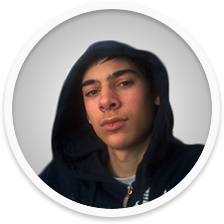
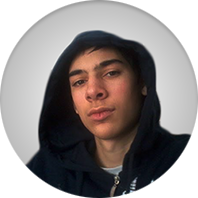
Design improvements

diff --git a/style.css b/style.css
@@ -1,1 +1,1 @@
-/*! normalize.css v4.1.1 | MIT License | github.com/necolas/normalize.css */html{font-family:sans-serif;-ms-text-size-adjust:100%;-webkit-text-size-adjust:100%}body{margin:0}article,aside,details,figcaption,figure,footer,header,main,menu,nav,section,summary{display:block}audio,canvas,progress,video{display:inline-block}audio:not([controls]){display:none;height:0}progress{vertical-align:baseline}template,[hidden]{display:none}a{background-color:transparent;-webkit-text-decoration-skip:objects}a:active,a:hover{outline-width:0}abbr[title]{border-bottom:none;text-decoration:underline;text-decoration:underline dotted}b,strong{font-weight:inherit}b,strong{font-weight:bolder}dfn{font-style:italic}h1{font-size:2em;margin:0.67em 0}mark{background-color:#ff0;color:#000}small{font-size:80%}sub,sup{font-size:75%;line-height:0;position:relative;vertical-align:baseline}sub{bottom:-0.25em}sup{top:-0.5em}img{border-style:none}svg:not(:root){overflow:hidden}code,kbd,pre,samp{font-family:monospace, monospace;font-size:1em}figure{margin:1em 40px}hr{box-sizing:content-box;height:0;overflow:visible}button,input,select,textarea{font:inherit;margin:0}optgroup{font-weight:bold}button,input{overflow:visible}button,select{text-transform:none}button,html [type="button"],[type="reset"],[type="submit"]{-webkit-appearance:button}button::-moz-focus-inner,[type="button"]::-moz-focus-inner,[type="reset"]::-moz-focus-inner,[type="submit"]::-moz-focus-inner{border-style:none;padding:0}button:-moz-focusring,[type="button"]:-moz-focusring,[type="reset"]:-moz-focusring,[type="submit"]:-moz-focusring{outline:1px dotted ButtonText}fieldset{border:1px solid #c0c0c0;margin:0 2px;padding:0.35em 0.625em 0.75em}legend{box-sizing:border-box;color:inherit;display:table;max-width:100%;padding:0;white-space:normal}textarea{overflow:auto}[type="checkbox"],[type="radio"]{box-sizing:border-box;padding:0}[type="number"]::-webkit-inner-spin-button,[type="number"]::-webkit-outer-spin-button{height:auto}[type="search"]{-webkit-appearance:textfield;outline-offset:-2px}[type="search"]::-webkit-search-cancel-button,[type="search"]::-webkit-search-decoration{-webkit-appearance:none}::-webkit-input-placeholder{color:inherit;opacity:0.54}::-webkit-file-upload-button{-webkit-appearance:button;font:inherit}html{width:100%;height:100%}html head{width:0px;height:0px}html body{width:100%;height:100%;font-family:'Lato', sans-serif}html body div#nojs{display:none;background-color:black;color:white;font-size:20pt;padding:6pt;text-align:center}html body div#nojs.nojs{display:block}html body div#background{display:block;position:fixed;z-index:-5;top:0px;width:100%;height:100%;background-color:#0270f0;background:radial-gradient(#0270f0, #014696)}#title{padding-top:10%;width:100%;height:100%;box-sizing:border-box;text-shadow:0px 1px 3px rgba(0,0,0,0.2)}#title .title-light{color:#6eb8f5;font-size:28pt}#title .title-heavy{color:#ebf8ff;font-size:48pt}#title .title{font-family:'Marck Script', cursive;text-align:center;margin:10pt}@supports (animation-name: test){#title .title{opacity:0;animation:title-fade 1s ease-in forwards}}@keyframes title-fade{from{opacity:0}to{opacity:1}}#about{width:100%;height:100%}#about #about-top{height:40pt;display:block}#about #about-container{width:60%;margin:0px auto;background-color:#f9f9f9;border-radius:2pt;padding:1pt 10pt;box-shadow:0px 3px 5px rgba(0,0,0,0.35)}@supports (animation-name: test){#about #about-container{animation-name:about-fade;animation-duration:600ms;animation-play-state:paused;animation-fill-mode:forwards;animation-timing-function:ease-in;opacity:0}}#about #about-container.nojs{animation-play-state:running}#about #about-container h1{text-align:center;color:#111;margin-top:5pt}#about #about-container img{float:left;width:20%;margin-left:5%}#about #about-container p{text-align:justify;float:right;width:65%;margin-right:5%;margin-top:25pt;font-size:14pt;line-height:22pt}#about #about-container footer{clear:both;height:20pt}@keyframes about-fade{from{opacity:0;transform:translateY(220px)}to{opacity:1;transform:translateY(0)}}#projects{width:100%;overflow:hidden}#projects h1{color:#b0d0eb;text-align:center;padding:20pt;text-shadow:0px 1px 3px rgba(0,0,0,0.2)}#projects div#nojs{display:none;width:50%;margin:0px auto}#projects div#nojs.nojs{display:block}#projects #project-container{width:720pt;margin:auto}#projects #project-container.nojs{display:none}#projects #project-container .project{display:inline-block;width:140pt;height:140pt;margin:20pt;overflow-y:hidden;overflow-x:hidden;box-shadow:0px 1px 3px rgba(0,0,0,0.4);transition:all 100ms ease;border-radius:2px}@supports (animation-name: test){#projects #project-container .project{animation-name:project-appear;animation-duration:800ms;animation-timing-function:ease-in;animation-fill-mode:forwards;animation-play-state:paused;opacity:0}}#projects #project-container .project:hover{box-shadow:0px 0px 6px rgba(0,0,0,0.8)}#projects #project-container .project:hover p{position:absolute;background-color:rgba(0,0,0,0.8);border-radius:5px;opacity:1;transform:translateY(0px);z-index:150}#projects #project-container .project img{display:block;width:140pt;height:140pt;transition:all 180ms ease}#projects #project-container .project p{display:block;width:160pt;padding:6pt;box-sizing:border-box;margin-top:-6px;margin-left:-10pt;transition:all 300ms ease;opacity:0;transform:translateY(-30px);text-align:center;color:white}@keyframes project-appear{from{opacity:0;transform:translateX(100px)}to{opacity:1;transform:translateX(0px)}}#contact{width:100%;height:100%}#contact h1{color:#b0d0eb;text-align:center;padding:20pt;text-shadow:0px 1px 3px rgba(0,0,0,0.2)}#contact h2{font-family:'Marck Script', cursive;text-align:center;font-size:28pt;color:#b0d0eb;text-shadow:0px 1px 3px rgba(0,0,0,0.2)}#contact h3{text-align:center;font-size:16pt;color:#ebf8ff;text-shadow:0px 1px 3px rgba(0,0,0,0.2)}#contact h3 a{color:inherit;text-decoration:inherit;transition:all 180ms ease}#contact h3 a:hover{text-shadow:0px 1px 3px rgba(0,0,0,0.4);color:#b0d0eb}#contact ul{list-style-type:none;text-align:center;padding:0px;margin:0px}#contact ul li{display:inline-block;background-color:transparent;margin:0pt 5pt;box-shadow:0px 1px 3px rgba(0,0,0,0.4);border-radius:50%;overflow:hidden;width:36pt;height:36pt;transition:all 180ms ease}#contact ul li:hover{-webkit-filter:brightness(80%);filter:brightness(80%)}#contact ul li a{display:block}#contact ul li a img{width:36pt;height:36pt;border-radius:50%}#button-hamburger{display:none}#buttons{display:block;position:fixed;list-style-type:none;right:5pt;top:20%;z-index:200}#buttons li{box-sizing:border-box;transition:all 200ms;cursor:pointer;margin:2pt 0px;float:right;clear:both;width:36pt;height:36pt;white-space:nowrap;display:block;overflow:hidden;border-radius:18pt;box-shadow:0px 1pt 3pt rgba(0,0,0,0.4);background-color:white}#buttons li a{display:block;text-decoration:none}#buttons li a span{display:inline-block;height:12pt}#buttons li a span.image{width:36pt;height:36pt}#buttons li a span.image img{width:24pt;height:24pt;padding:6pt}#buttons li a span.title{font-size:14pt;text-align:center;width:60pt;display:inline;top:-14pt;position:relative;left:6pt;color:black}#buttons li:hover{width:120pt}@media screen and (max-width: 1200px){#about #about-container img{margin-top:5%}}@media screen and (max-width: 960px){#about #about-container h1{margin-bottom:0px}#about #about-container img{width:30%;margin-top:15%}#about #about-container p{width:50%}#projects #project-container{width:720px}#projects #project-container .project p{opacity:1;width:140pt;margin:0px;color:black;background-color:white;transform:translateY(-22pt);padding:4pt}#projects #project-container .project:hover p{position:relative;background-color:white;transform:translateY(-22pt);border-radius:0px}}@media screen and (max-width: 480px){#title{padding-top:20%}#title .title-light{font-size:18pt}#title .title-heavy{font-size:24pt}#button-hamburger{display:block;position:fixed;width:48px;height:48px;display:fixed;top:8pt;right:4pt;background-color:red;z-index:250;border-radius:50%;box-shadow:0px 1pt 3pt rgba(0,0,0,0.4);background-color:white}#button-hamburger img{width:24pt;height:24pt;padding:6pt}#buttons{display:block;position:fixed;list-style-type:none;z-index:200;right:4pt;top:36pt;transition:all 240ms}#buttons.off li{position:absolute;top:-36pt;right:0pt;opacity:0}#buttons.on li{position:relative;top:0pt;right:0pt;opacity:1}#buttons li:hover{width:36pt}#about #about-container{width:80%}#about #about-container img{display:block;width:70%;float:none;margin:auto}#about #about-container p{width:98%;margin:auto;float:none;margin-top:10pt;display:block;font-size:11pt}#projects #project-container{width:240pt;margin:0px auto}#projects #project-container .project{width:110pt;height:110pt;margin:5pt}#projects #project-container .project img{width:110pt;height:110pt}#projects #project-container .project p{opacity:1;width:110pt;margin:0px;color:black;background-color:white;transform:translateY(-18pt);padding:2pt}#projects #project-container .project:hover p{position:relative;background-color:white;transform:translateY(-18pt);border-radius:0px}}
+/*! normalize.css v4.1.1 | MIT License | github.com/necolas/normalize.css */html{font-family:sans-serif;-ms-text-size-adjust:100%;-webkit-text-size-adjust:100%}body{margin:0}article,aside,details,figcaption,figure,footer,header,main,menu,nav,section,summary{display:block}audio,canvas,progress,video{display:inline-block}audio:not([controls]){display:none;height:0}progress{vertical-align:baseline}template,[hidden]{display:none}a{background-color:transparent;-webkit-text-decoration-skip:objects}a:active,a:hover{outline-width:0}abbr[title]{border-bottom:none;text-decoration:underline;text-decoration:underline dotted}b,strong{font-weight:inherit}b,strong{font-weight:bolder}dfn{font-style:italic}h1{font-size:2em;margin:0.67em 0}mark{background-color:#ff0;color:#000}small{font-size:80%}sub,sup{font-size:75%;line-height:0;position:relative;vertical-align:baseline}sub{bottom:-0.25em}sup{top:-0.5em}img{border-style:none}svg:not(:root){overflow:hidden}code,kbd,pre,samp{font-family:monospace, monospace;font-size:1em}figure{margin:1em 40px}hr{box-sizing:content-box;height:0;overflow:visible}button,input,select,textarea{font:inherit;margin:0}optgroup{font-weight:bold}button,input{overflow:visible}button,select{text-transform:none}button,html [type="button"],[type="reset"],[type="submit"]{-webkit-appearance:button}button::-moz-focus-inner,[type="button"]::-moz-focus-inner,[type="reset"]::-moz-focus-inner,[type="submit"]::-moz-focus-inner{border-style:none;padding:0}button:-moz-focusring,[type="button"]:-moz-focusring,[type="reset"]:-moz-focusring,[type="submit"]:-moz-focusring{outline:1px dotted ButtonText}fieldset{border:1px solid #c0c0c0;margin:0 2px;padding:0.35em 0.625em 0.75em}legend{box-sizing:border-box;color:inherit;display:table;max-width:100%;padding:0;white-space:normal}textarea{overflow:auto}[type="checkbox"],[type="radio"]{box-sizing:border-box;padding:0}[type="number"]::-webkit-inner-spin-button,[type="number"]::-webkit-outer-spin-button{height:auto}[type="search"]{-webkit-appearance:textfield;outline-offset:-2px}[type="search"]::-webkit-search-cancel-button,[type="search"]::-webkit-search-decoration{-webkit-appearance:none}::-webkit-input-placeholder{color:inherit;opacity:0.54}::-webkit-file-upload-button{-webkit-appearance:button;font:inherit}html{width:100%;height:100%}html head{width:0px;height:0px}html body{width:100%;height:100%;font-family:'Lato', sans-serif}html body div#nojs{display:none;background-color:black;color:white;font-size:20pt;padding:6pt;text-align:center;position:fixed;width:100%}html body div#nojs.nojs{display:block}html body div#background{display:block;position:fixed;z-index:-5;top:0px;width:100%;height:100%;background-color:#0270f0;background:radial-gradient(#0270f0, #014696)}#title{padding-top:10%;width:100%;height:100%;box-sizing:border-box;text-shadow:0px 1px 3px rgba(0,0,0,0.2)}#title .title-light{color:#6eb8f5;font-size:28pt}#title .title-heavy{color:#ebf8ff;font-size:48pt}#title .title{font-family:'Marck Script', cursive;text-align:center;margin:10pt}@supports (animation-name: test){#title .title{opacity:0;animation:title-fade 1s ease-in forwards}}@keyframes title-fade{from{opacity:0}to{opacity:1}}#about{width:100%;height:100%;display:block;overflow:hidden}#about #about-top{height:40pt;display:block}#about #about-container{width:800pt;height:200pt;margin-top:120pt;margin-left:-60pt;border-radius:2pt}@supports (animation-name: test){#about #about-container{animation-name:about-fade;animation-duration:600ms;animation-play-state:paused;animation-fill-mode:forwards;animation-timing-function:ease-in;opacity:0}}#about #about-container.nojs{animation-play-state:running}#about #about-container h1{text-align:left;color:#111;background-color:#2c2c2c;color:#f9f9f9;margin:0;padding:0.5% 10%;width:20%;box-shadow:0px 3px 5px rgba(0,0,0,0.35)}#about #about-container #about-content{background-color:#3F3F3F;color:#F8F8F8;padding:1%;box-shadow:0px 3px 5px rgba(0,0,0,0.35)}#about #about-container #about-content img{float:left;width:20%;margin-left:10%}#about #about-container #about-content p{text-align:justify;float:right;width:60%;margin-right:5%;margin-top:25pt;font-size:14pt;line-height:22pt}#about #about-container footer{clear:both}@keyframes about-fade{from{opacity:0;transform:translate(-193px, -51px) rotate(15deg)}to{opacity:1;transform:translate(0, 0) rotate(15deg)}}#projects{width:100%;overflow:hidden}#projects h1{color:#b0d0eb;text-align:center;padding:20pt;text-shadow:0px 1px 3px rgba(0,0,0,0.2)}#projects div#nojs{display:none;width:50%;margin:0px auto}#projects div#nojs.nojs{display:block}#projects #project-container{width:720pt;margin:auto}#projects #project-container.nojs{display:none}#projects #project-container .project{display:inline-block;width:140pt;height:140pt;margin:20pt;overflow-y:hidden;overflow-x:hidden;box-shadow:0px 1px 3px rgba(0,0,0,0.4);transition:all 100ms ease-in;border-radius:2px}@supports (animation-name: test){#projects #project-container .project{animation-name:project-appear;animation-duration:800ms;animation-timing-function:ease-in;animation-fill-mode:forwards;animation-play-state:paused;opacity:0}}#projects #project-container .project:hover{box-shadow:0px 0px 6px rgba(0,0,0,0.8)}#projects #project-container .project:hover img{width:160pt;height:160pt;margin:-10pt;filter:grayscale(0)}#projects #project-container .project img{display:block;width:140pt;height:140pt;transition:all 180ms ease;filter:grayscale(0.6);z-index:1}#projects #project-container .project p{z-index:9999;background-color:rgba(0,0,0,0.6);position:absolute;display:block;margin:0;width:140pt;height:24pt;padding:4pt;box-sizing:border-box;transition:all 300ms ease;text-align:center;color:white}@keyframes project-appear{from{opacity:0;transform:translateX(100px)}to{opacity:1;transform:translateX(0px)}}#contact{width:100%;height:100%}#contact h1{color:#b0d0eb;text-align:center;padding:20pt;text-shadow:0px 1px 3px rgba(0,0,0,0.2)}#contact h2{font-family:'Marck Script', cursive;text-align:center;font-size:28pt;color:#b0d0eb;text-shadow:0px 1px 3px rgba(0,0,0,0.2)}#contact h3{text-align:center;font-size:16pt;color:#ebf8ff;text-shadow:0px 1px 3px rgba(0,0,0,0.2)}#contact h3 a{color:inherit;text-decoration:inherit;transition:all 180ms ease}#contact h3 a:hover{text-shadow:0px 1px 3px rgba(0,0,0,0.4);color:#b0d0eb}#contact ul{list-style-type:none;text-align:center;padding:0px;margin:0px}#contact ul li{display:inline-block;background-color:transparent;margin:0pt 5pt;box-shadow:0px 1px 3px rgba(0,0,0,0.4);border-radius:50%;overflow:hidden;width:36pt;height:36pt;transition:all 180ms ease}#contact ul li:hover{filter:brightness(80%)}#contact ul li a{display:block}#contact ul li a img{width:36pt;height:36pt;border-radius:50%}#button-hamburger{display:none}#buttons{display:block;position:fixed;list-style-type:none;right:5pt;top:20%;z-index:200}#buttons li{box-sizing:border-box;transition:all 200ms;cursor:pointer;margin:2pt 0px;float:right;clear:both;width:36pt;height:36pt;white-space:nowrap;display:block;overflow:hidden;border-radius:18pt;box-shadow:0px 1pt 3pt rgba(0,0,0,0.4);background-color:white}#buttons li a{display:block;text-decoration:none}#buttons li a span{display:inline-block;height:12pt}#buttons li a span.image{width:36pt;height:36pt}#buttons li a span.image img{width:24pt;height:24pt;padding:6pt}#buttons li a span.title{font-size:14pt;text-align:center;width:60pt;display:inline;top:-14pt;position:relative;left:6pt;color:black}#buttons li:hover{width:120pt}@media screen and (max-width: 1200px){#about #about-container img{margin-top:5%}}@media screen and (max-width: 960px){#about #about-container{margin:0 auto;width:80%;animation-name:none;opacity:1}#about #about-container h1{width:80%;margin:0 auto}#about #about-container #about-content img{display:block;width:30%;margin:10pt}#about #about-container #about-content p{width:60%;margin:20pt 0;display:block;font-size:11pt;padding:12pt}#projects #project-container{width:720px}}@media screen and (max-width: 480px){#title{padding-top:20%}#title .title-light{font-size:18pt}#title .title-heavy{font-size:24pt}#button-hamburger{display:block;position:fixed;width:48px;height:48px;display:fixed;top:8pt;right:4pt;background-color:red;z-index:250;border-radius:50%;box-shadow:0px 1pt 3pt rgba(0,0,0,0.4);background-color:white}#button-hamburger img{width:24pt;height:24pt;padding:6pt}#buttons{display:block;position:fixed;list-style-type:none;z-index:200;right:4pt;top:36pt;transition:all 240ms}#buttons.off li{position:absolute;top:-36pt;right:0pt;opacity:0}#buttons.on li{position:relative;top:0pt;right:0pt;opacity:1}#buttons li:hover{width:36pt}#about #about-container{margin:0 auto;width:80%;animation-name:none;opacity:1}#about #about-container h1{width:80%;margin:0 auto}#about #about-container #about-content img{display:block;float:none;width:40%;margin:10pt auto}#about #about-container #about-content p{width:80%;float:none;margin:10pt auto;display:block;font-size:11pt}#projects #project-container{width:180pt;margin:0px auto}}

diff --git a/index.html b/index.html
@@ -1,1 +1,1 @@
-<!DOCTYPE html><html id="nojs"><head><meta charset="utf-8"><meta name="viewport" content="width=device-width,user-scalable=no,initial-scale=1,maximum-scale=1,minimum-scale=1"><link rel="shortcut icon" type="image/x-icon" href="res/favicon.ico"><link rel="stylesheet" href="style.css"><script src="https://code.jquery.com/jquery-3.0.0.min.js" integrity="sha256-JmvOoLtYsmqlsWxa7mDSLMwa6dZ9rrIdtrrVYRnDRH0=" crossorigin="anonymous"></script><script src="https://ajax.googleapis.com/ajax/libs/angularjs/1.4.8/angular.min.js"></script><link href="https://fonts.googleapis.com/css?family=Marck+Script&subset=latin-ext" rel="stylesheet" type="text/css"><link href="https://fonts.googleapis.com/css?family=Lato:400,700&subset=latin-ext" rel="stylesheet" type="text/css"><title>nkg5</title></head><body><div id="background"></div><div id="button-hamburger"><img src="res/icon_menu.svg"></div><div id="nojs" class="nojs">For best experience enable javascript.</div><ul id="buttons" class="off"><li class="active"><a id="home_button" href="#title"><span class="image"><img src="res/icon_home.svg"> </span><span class="title">Home</span></a></li><li><a id="about_button" href="#about"><span class="image"><img src="res/icon_about.svg"> </span><span class="title">About</span></a></li><li><a id="projects_button" href="#projects"><span class="image"><img src="res/icon_projects.svg"> </span><span class="title">Projects</span></a></li><li><a id="contact_button" href="#contact"><span class="image"><img src="res/icon_contact.svg"> </span><span class="title">Contact</span></a></li></ul><div id="title"><p class="title title-light">Hello I am</p><p class="title title-heavy">Nikola Kovačević</p><p class="title title-light">a Programmer</p></div><div id="about"><span id="about-top"></span><div id="about-container" class="nojs"><h1>About</h1><img src="res/avatar.png"><p>Hello, I am IT student interested in both programing and graphic design. Currently without professional experience, but with experience working on many personal projects.</p><footer></footer></div></div><div id="projects"><h1>Projects</h1><div id="nojs" class="nojs">Enable javascript for AngularJS to work.</div><div id="project-container" ng-app="projectsApp" ng-controller="projectsController"><div ng-repeat="project in projects track by $index" class="project" style="animation-delay: {{ $index*180 }}ms"><a href="{{ project.link }}"><img ng-src="res/projects/{{ project.img }}" alt="{{ project.alt }}"></a><p>{{ project.title }}</p></div></div></div><div id="contact"><h1>Contact</h1><h2>Email:</h2><h3><a href="mailto:nikola.kovacevic@hotmail.com">nikola.kovacevic@hotmail.com</a></h3><h3><a href="nkg5.rs@gmail.com">nkg5.rs@gmail.com</a></h3><h2>Social networks:</h2><ul><li><a href="https://facebook.com/nkg5.rs"><img src="res/social-facebook.svg"></a></li><li><a href="http://nkg5.deviantart.com/"><img src="res/social-deviantart.svg"></a></li><li><a href="https://twitter.com/nkg5_rs"><img src="res/social-twitter.svg"></a></li><li><a href="https://github.com/nkg5"><img src="res/social-github.svg"></a></li><li><a href="https://www.linkedin.com/in/nikola-kova%C4%8Devi%C4%87-bb545310a?trk=nav_responsive_tab_profile"><img src="res/social-linkedin.svg"></a></li></ul></div><script src="app.js"></script></body></html>
+<!DOCTYPE html><html id="nojs"><head><meta charset="utf-8"><meta name="viewport" content="width=device-width,user-scalable=no,initial-scale=1,maximum-scale=1,minimum-scale=1"><link rel="shortcut icon" type="image/x-icon" href="res/favicon.ico"><link rel="stylesheet" href="style.css"><script src="https://code.jquery.com/jquery-3.0.0.min.js" integrity="sha256-JmvOoLtYsmqlsWxa7mDSLMwa6dZ9rrIdtrrVYRnDRH0=" crossorigin="anonymous"></script><script src="https://ajax.googleapis.com/ajax/libs/angularjs/1.4.8/angular.min.js"></script><link href="https://fonts.googleapis.com/css?family=Marck+Script&subset=latin-ext" rel="stylesheet" type="text/css"><link href="https://fonts.googleapis.com/css?family=Lato:400,700&subset=latin-ext" rel="stylesheet" type="text/css"><title>nkg5</title></head><body><div id="background"></div><div id="button-hamburger"><img src="res/icon_menu.svg"></div><div id="nojs" class="nojs">For best experience enable javascript.</div><ul id="buttons" class="off"><li class="active"><a id="home_button" href="#title"><span class="image"><img src="res/icon_home.svg"> </span><span class="title">Home</span></a></li><li><a id="about_button" href="#about"><span class="image"><img src="res/icon_about.svg"> </span><span class="title">About</span></a></li><li><a id="projects_button" href="#projects"><span class="image"><img src="res/icon_projects.svg"> </span><span class="title">Projects</span></a></li><li><a id="contact_button" href="#contact"><span class="image"><img src="res/icon_contact.svg"> </span><span class="title">Contact</span></a></li></ul><div id="title"><p class="title title-light">Hello I am</p><p class="title title-heavy">Nikola Kovačević</p><p class="title title-light">a Programmer</p></div><div id="about"><span id="about-top"></span><div id="about-container" class="nojs"><h1>About</h1><div id="about-content"><img src="res/avatar.png"><p>Hello, I am IT student interested in both programing and graphic design. Currently without professional experience, but with experience working on many personal projects.</p><footer></footer></div></div></div><div id="projects"><h1>Projects</h1><div id="nojs" class="nojs">Enable javascript for AngularJS to work.</div><div id="project-container" ng-app="projectsApp" ng-controller="projectsController"><div ng-repeat="project in projects track by $index" class="project" style="animation-delay: {{ $index*180 }}ms"><a href="{{ project.link }}"><p>{{ project.title }}</p><img ng-src="res/projects/{{ project.img }}" alt="{{ project.alt }}"></a></div></div></div><div id="contact"><h1>Contact</h1><h2>Email:</h2><h3><a href="mailto:nikola.kovacevic@hotmail.com">nikola.kovacevic@hotmail.com</a></h3><h3><a href="nkg5.rs@gmail.com">nkg5.rs@gmail.com</a></h3><h2>Social networks:</h2><ul><li><a href="https://facebook.com/nkg5.rs"><img src="res/social-facebook.svg"></a></li><li><a href="http://nkg5.deviantart.com/"><img src="res/social-deviantart.svg"></a></li><li><a href="https://twitter.com/nkg5_rs"><img src="res/social-twitter.svg"></a></li><li><a href="https://github.com/nkg5"><img src="res/social-github.svg"></a></li><li><a href="https://www.linkedin.com/in/nikola-kova%C4%8Devi%C4%87-bb545310a?trk=nav_responsive_tab_profile"><img src="res/social-linkedin.svg"></a></li></ul></div><script src="app.js"></script></body></html>

diff --git a/app.js b/app.js
@@ -1,3 +1,3 @@
 $("document").ready(function(){$(".nojs").removeClass("nojs"),$("#nojs").addClass("js")}),$("#home_button").click(function(o){$("html, body").animate({scrollTop:$("#title").offset().top},"slow"),o.stopPropagation()}),$("#about_button").click(function(o){$("html, body").animate({scrollTop:$("#about").offset().top},"slow"),o.stopPropagation()}),$("#projects_button").click(function(o){$("html, body").animate({scrollTop:$("#projects").offset().top},"slow"),o.stopPropagation()}),$("#contact_button").click(function(o){$("html, body").animate({scrollTop:$("#contact").offset().top},"slow"),o.stopPropagation()}),$("#button-hamburger").click(function(o){$("#buttons").hasClass("on")?($("#buttons").removeClass("on"),$("#buttons").addClass("off")):($("#buttons").removeClass("off"),$("#buttons").addClass("on"))});
 var app=angular.module("projectsApp",[]);app.controller("projectsController",["$scope","$http",function(o,t){t.get("res/projects.json").then(function(t){o.projects=t.data.projects})}]);
-$(window).scroll(function(){var n=$(window).scrollTop(),i=$(window).height(),o=i/2;n>3*o?$(".project").css("animation-play-state","running"):n>o&&$("#about-container").css("animation-play-state","running")});
+var scroll=$(window).scrollTop();$(window).scroll(function(){scroll=$(window).scrollTop();var o=$(window).height(),n=o/2;scroll>3*n?$(".project").css("animation-play-state","running"):scroll>n&&$("#about-container").css("animation-play-state","running")});
